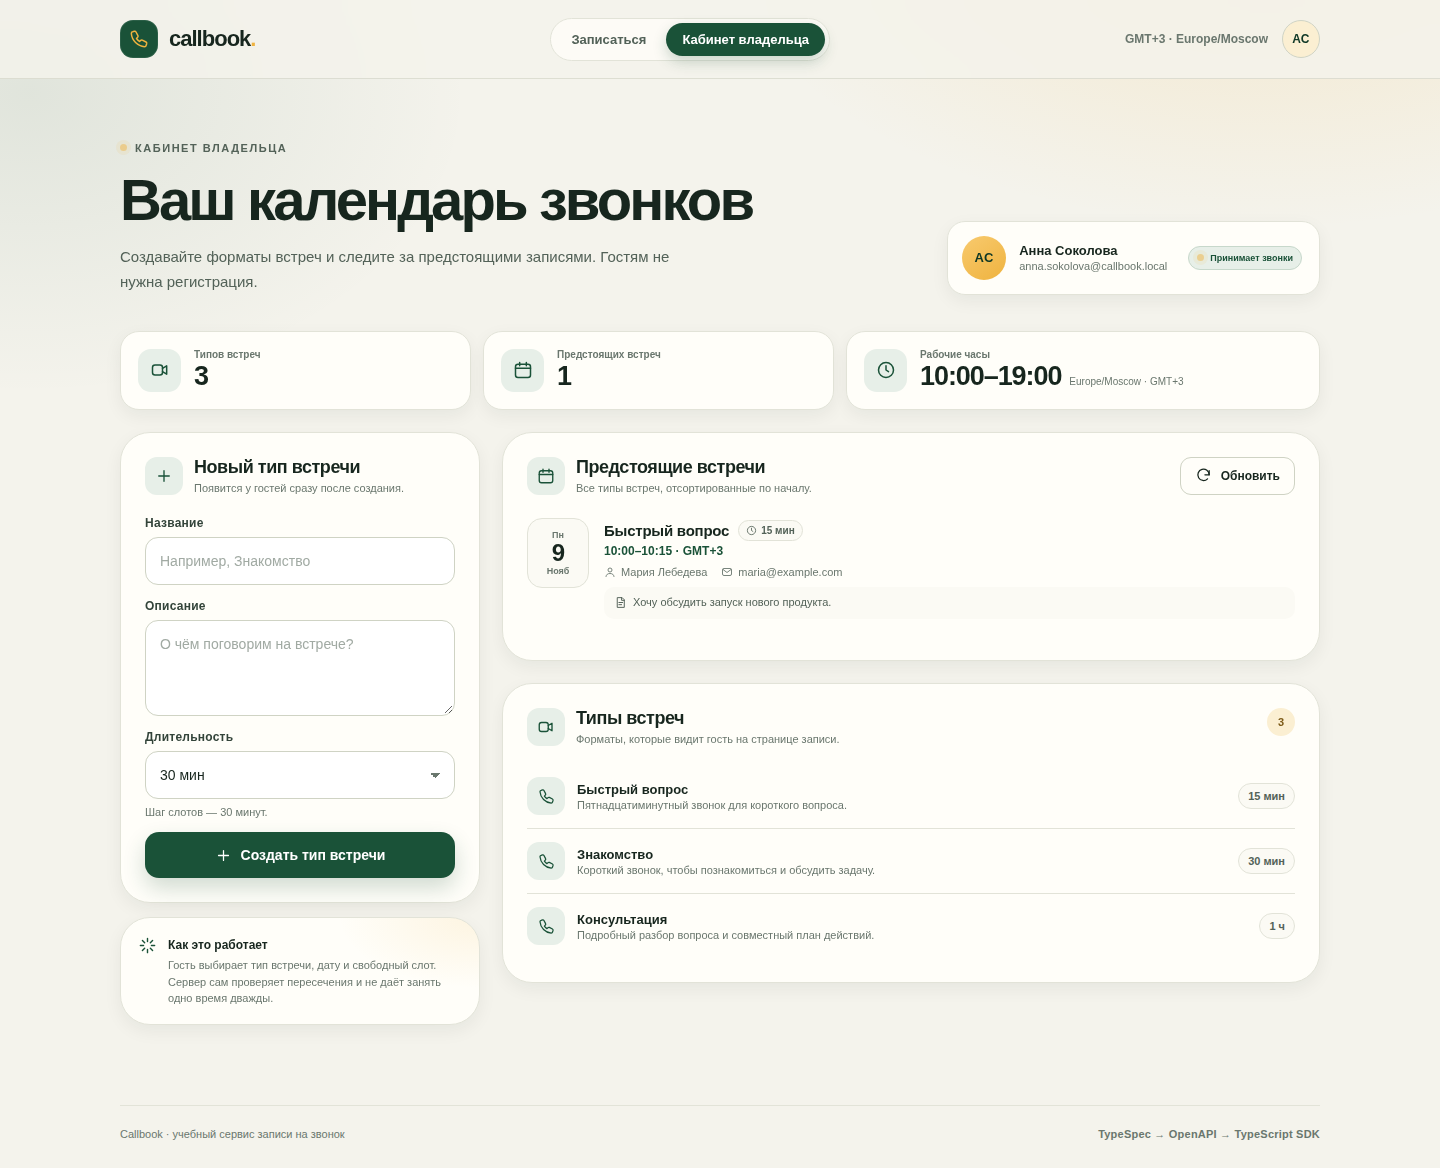
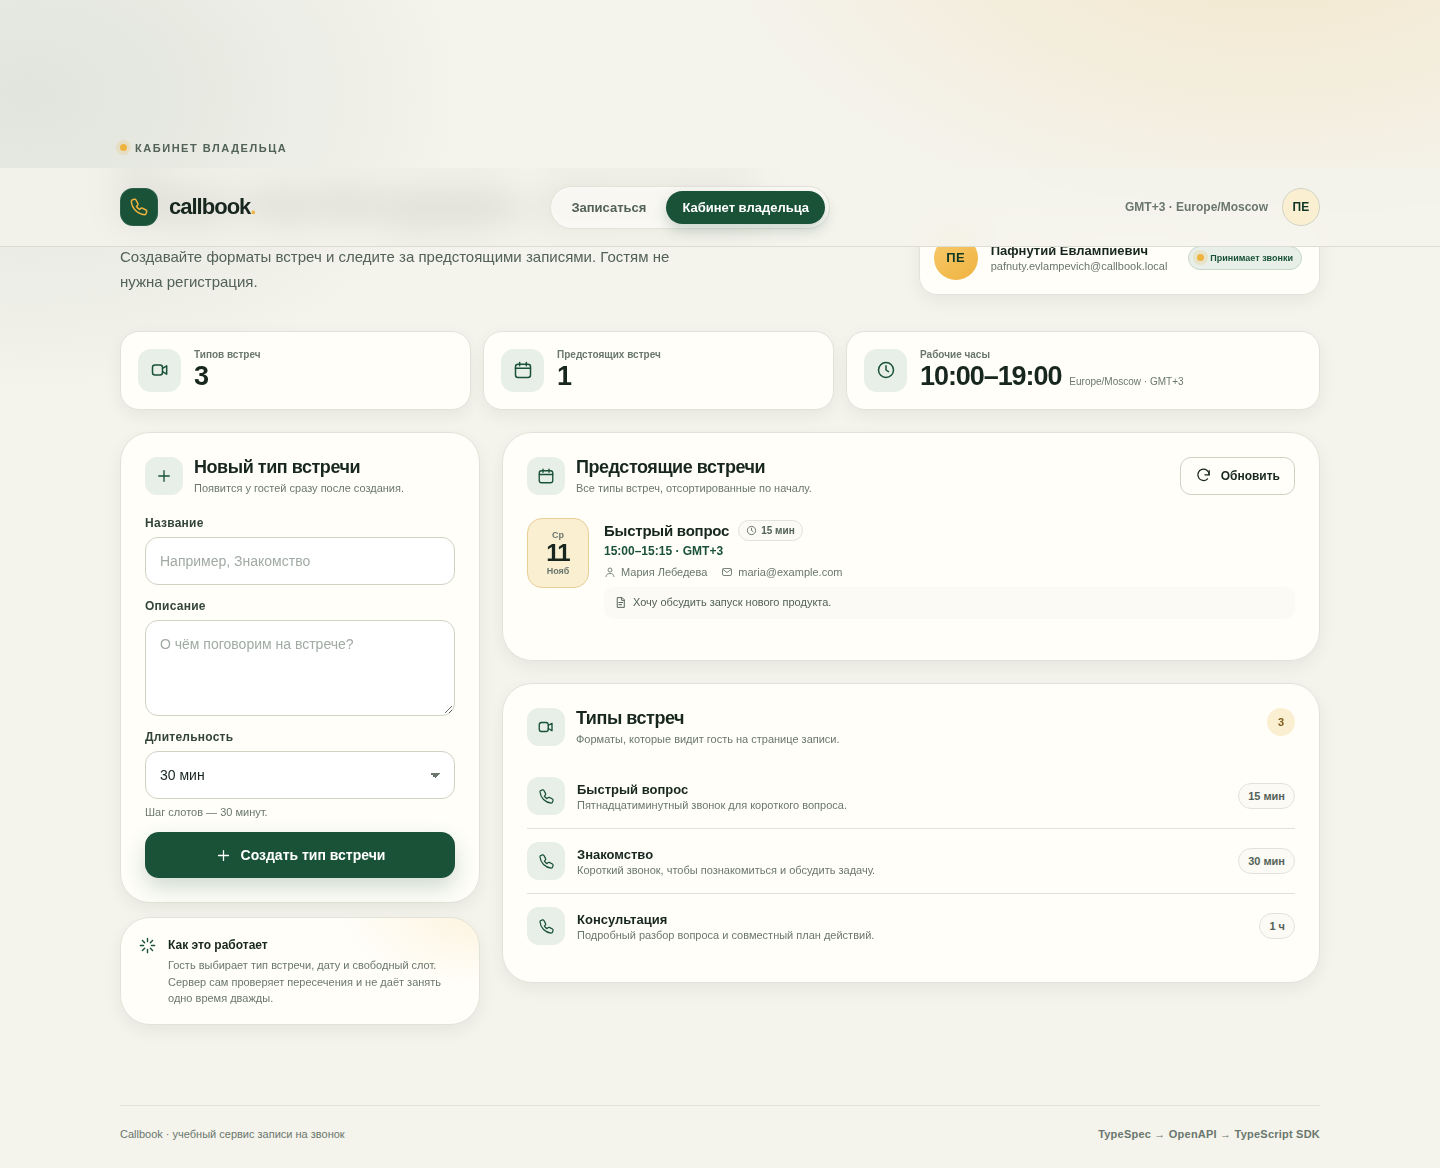
docs: refresh screenshots and add booking flow images (#8)
Retake docs screenshots on a fresh instance with the new owner, so the header and owner card show PE and pafnuty.evlampevich@callbook.local. Embed the existing dialog and success screenshots into README.

Closes #8

diff --git a/README.md b/README.md
@@ -33,6 +33,10 @@ Render](#данные-на-render).
 
 ![Страница гостя](docs/guest.png)
 
+![Диалог записи](docs/dialog.png)
+
+![Подтверждение записи](docs/success.png)
+
 ![Кабинет владельца](docs/owner.png)
 
 ## Сценарий: от типа встречи до записи у владельца
